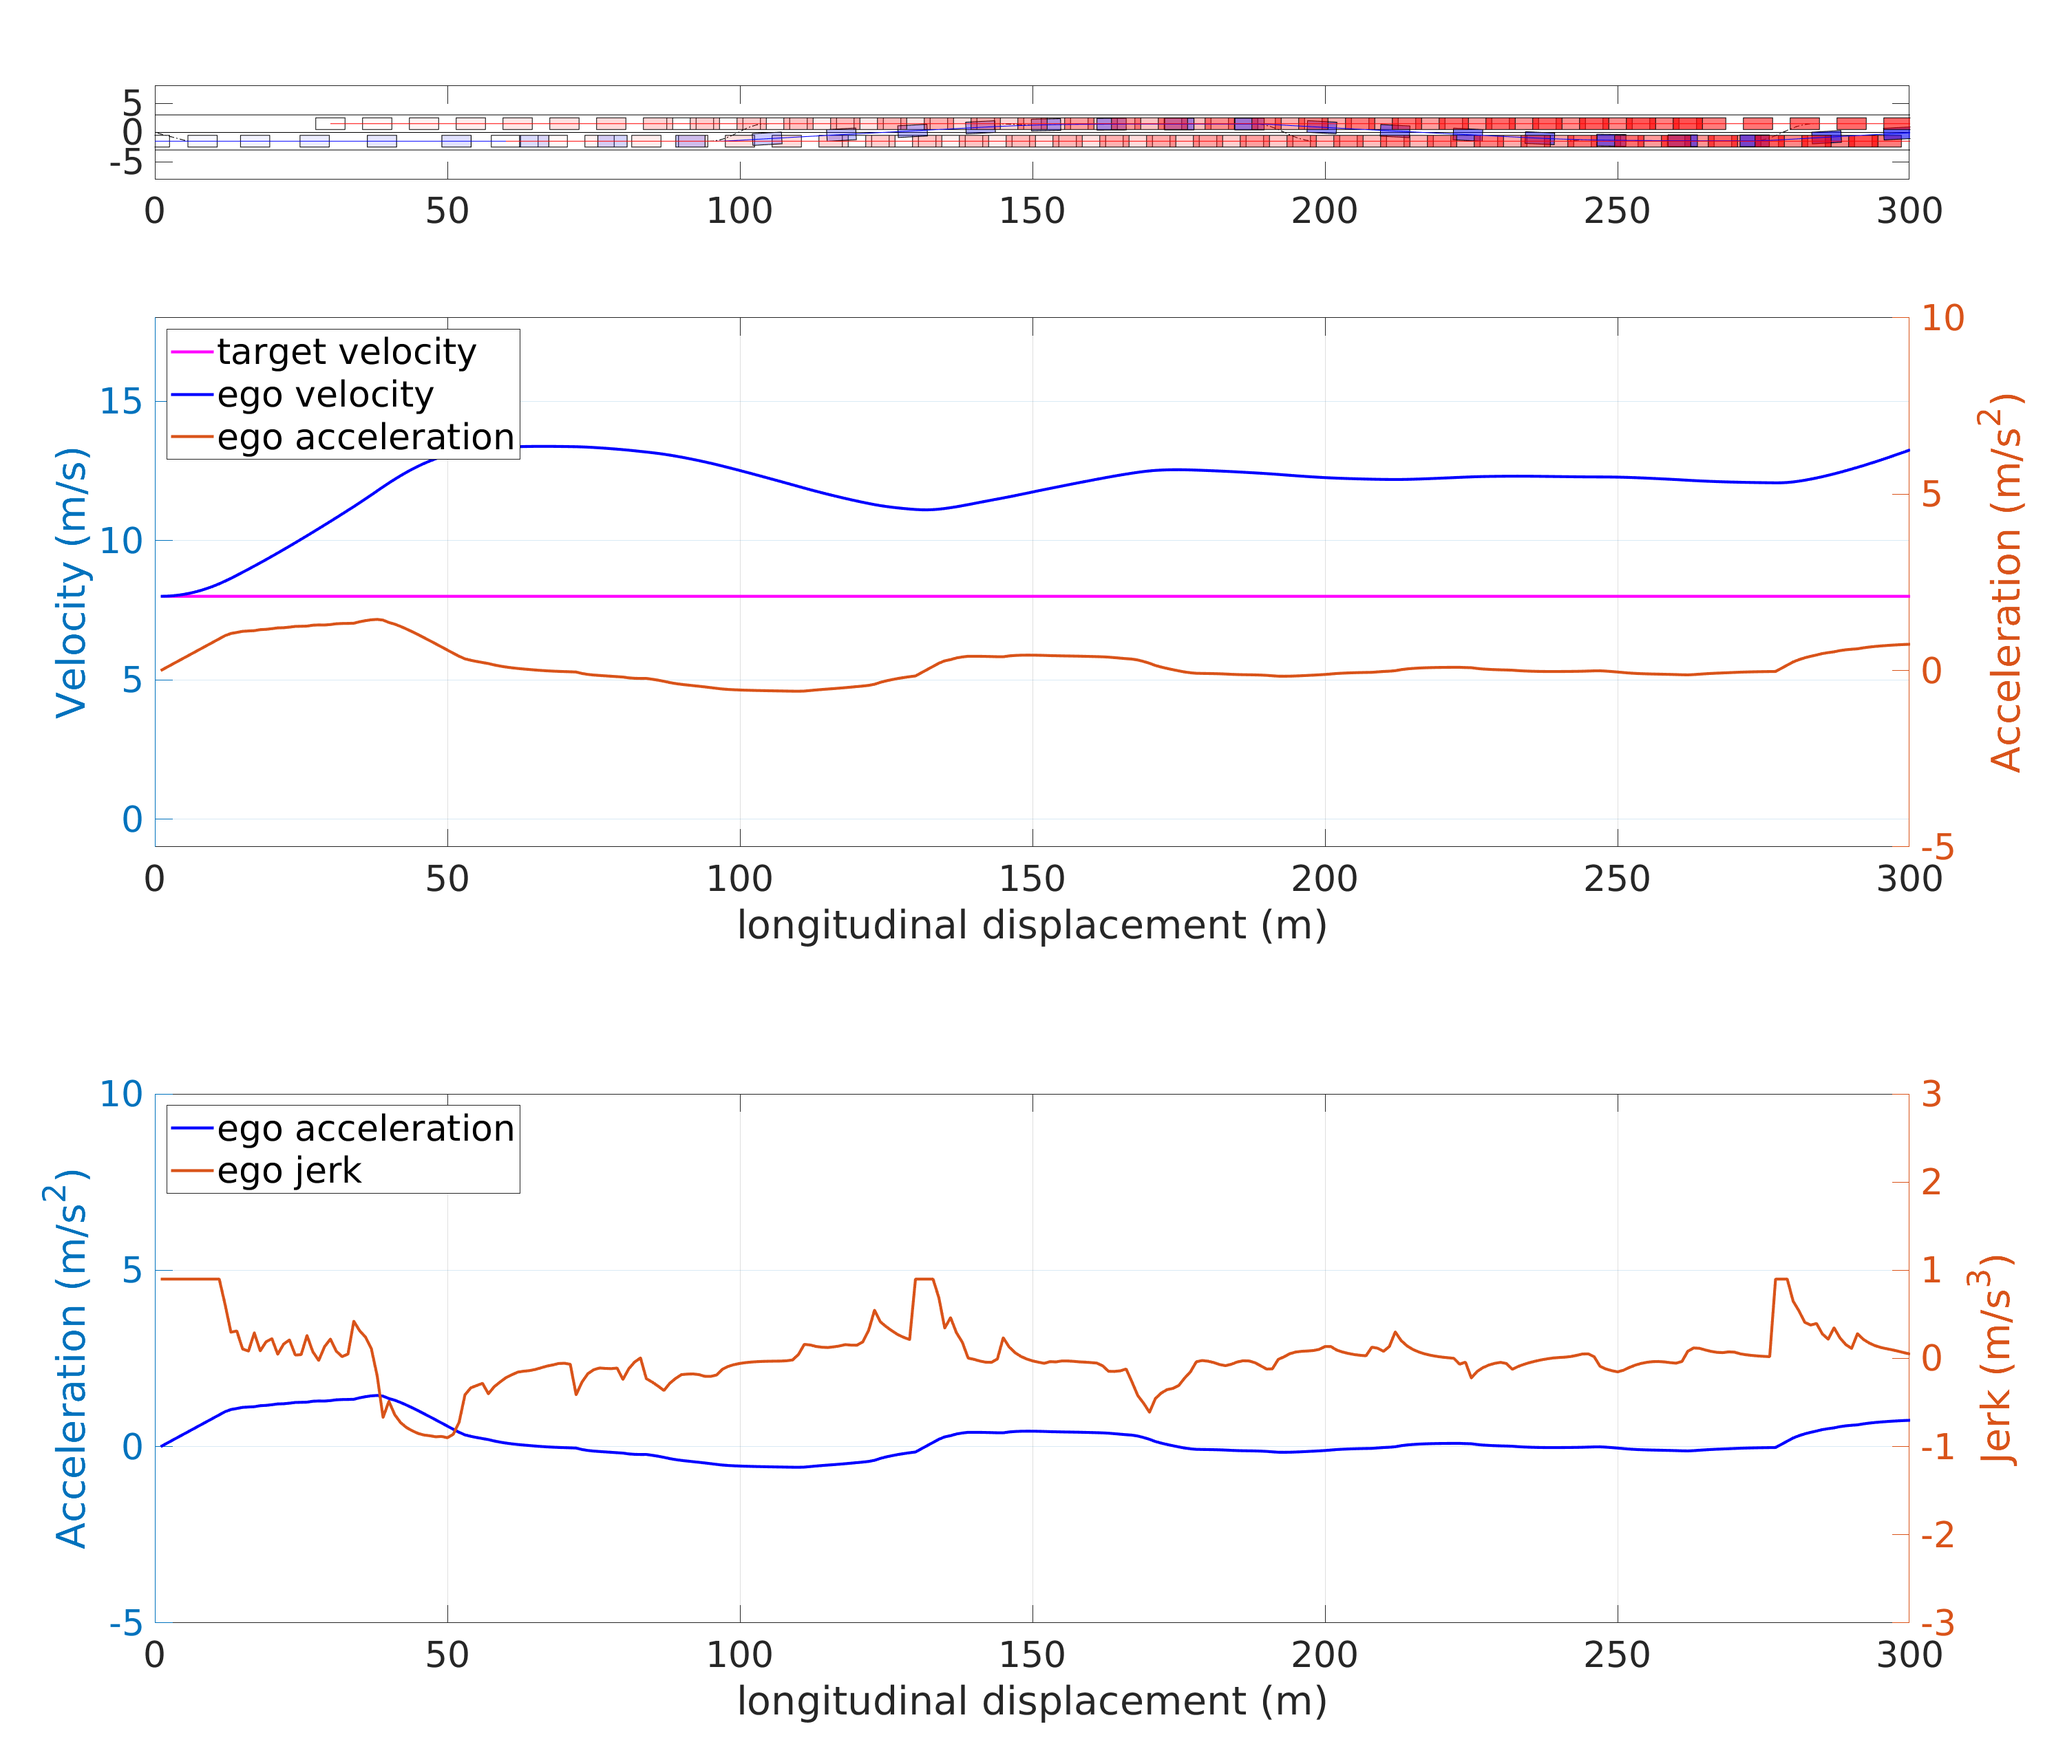
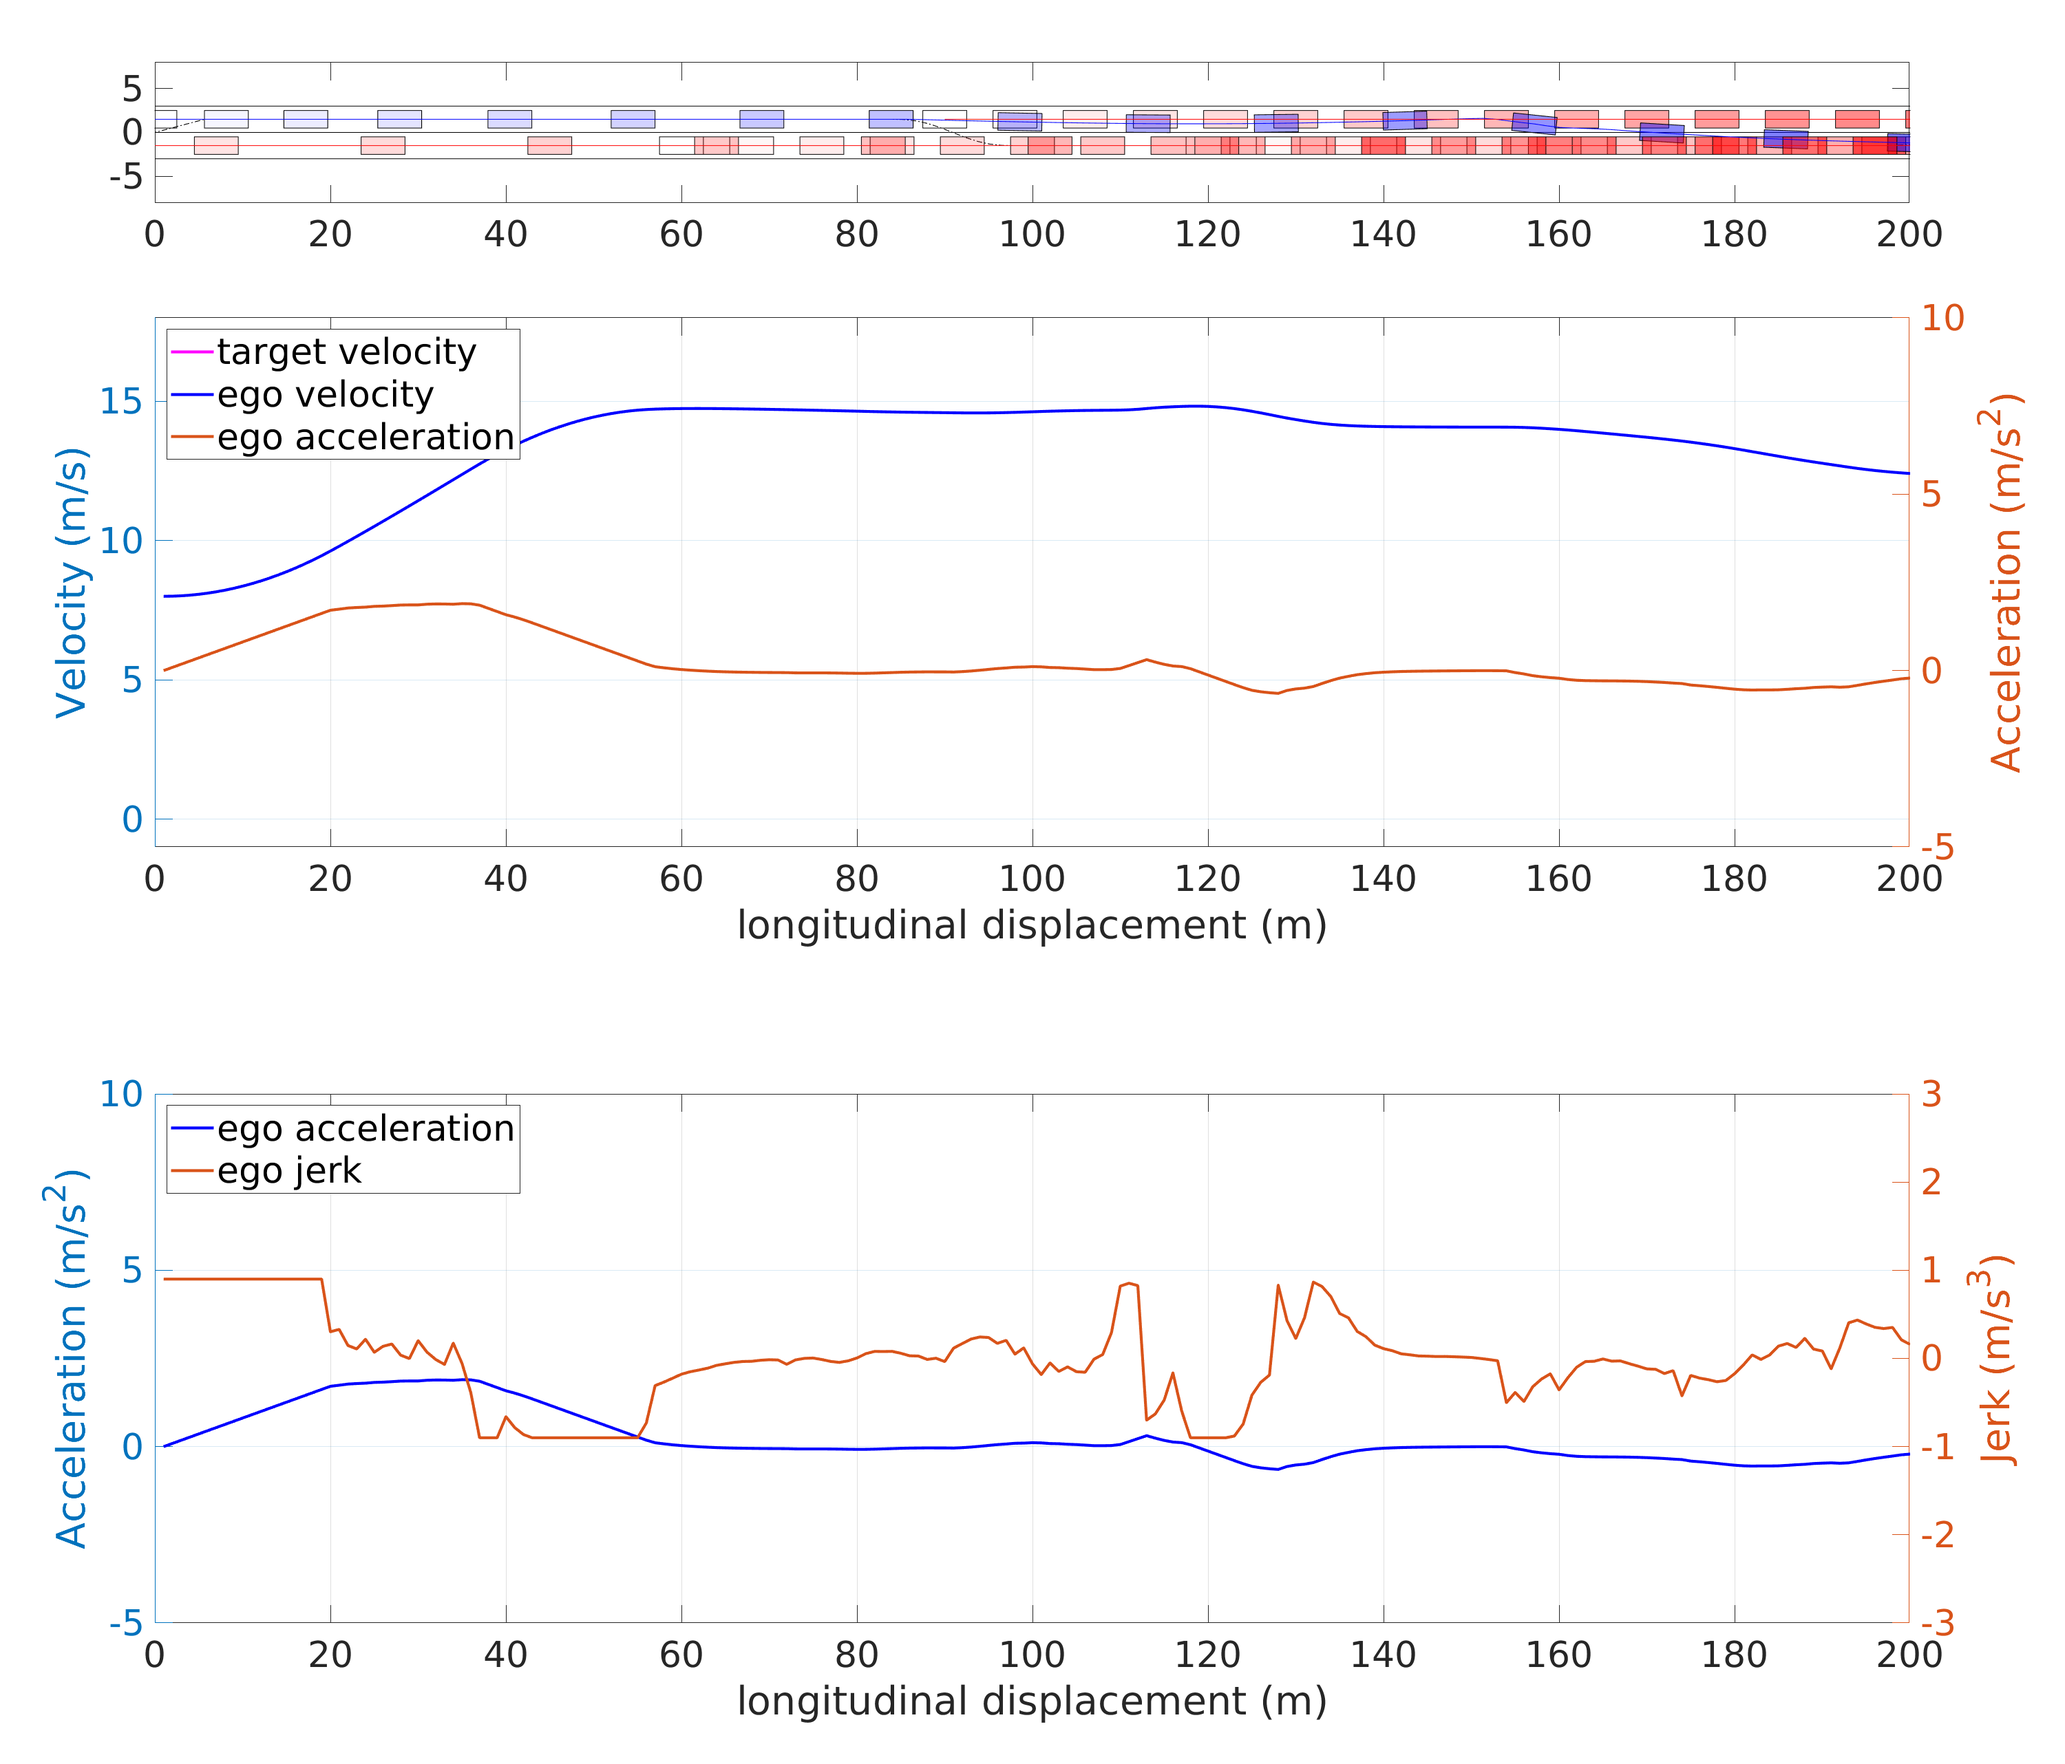
Policy maker is updated

diff --git a/DYNCST.m b/DYNCST.m
@@ -135,12 +135,12 @@ for i = 1:1:NUM_CTRL
 %            w_vel       = 30.* ones(NUM_CTRL,1);
 %         else
 
-       EgoPolicy1=0;EgoPolicy2tot=1;EgoPolicy2=1.* ones(20,1);counter=0;%initialization meaning lane keeping by default 
+       EgoPolicy1tot=0.;EgoPolicy1=0.* ones(20,1);EgoPolicy2tot=1;EgoPolicy2=1.* ones(20,1);counter=0;%initialization meaning lane keeping by default 
        %EgoPolicy2=1.* ones(20,1); b default for checking 20 cars in the other lane which is more than enough
        % the default value for EgoPolicy2 is 1 which will mk equal to 1 if y_temp_final is not the first or the last lane of the road 
 
        %if there wasn't an car near than distance of 300 from our car, we spcify the index as a requirment for following eqs  
-       ref_dist=10000.;closest_car=ref_dist; closest_back_car_dist=ref_dist;closest_front_car_dist=ref_dist;%initalization large distance
+       ref_dist=10000.;dangerousCar=0.;closest_car=ref_dist; closest_back_car_dist=ref_dist;closest_front_car_dist=ref_dist;%initalization large distance
        ccie=0;%closest_car_in_egolane=0;
        index=-1;front_index=1.5;back_index=1.5;%initalization index, we need to evaluate each time the nvironment to find the correct trget vehicle and if there's no car available in our lane index should be NaN 
         for k = 1:length(obstacle)
@@ -166,23 +166,23 @@ for i = 1:1:NUM_CTRL
               %finding the index of target vhicle with min distance if it's in the same lane with ego car   
               
               if deltaX>0%using the 1.1 coefficient front target vehicles have more influence on egopolicy value than the back vehicles 
-                  EgoPolicy1 =EgoPolicy1+1.1*deltaV/deltaX;
+                  EgoPolicy1(k) =1.1*obstacle(k).traj(4,i)*(deltaV/abs(deltaV))/deltaX;%deltaV/deltaX;
               elseif deltaX==0%to prevent infinity values we consider egopolicy2= 0 for deltaX=0
-                  EgoPolicy1 =EgoPolicy1+0;  
+                  EgoPolicy1(k) =0;  
               elseif deltaX<0
-                  EgoPolicy1 =EgoPolicy1+deltaV/deltaX;  
+                  EgoPolicy1(k) =obstacle(k).traj(4,i)*(deltaV/abs(deltaV))/deltaX;  
               end
-
-              if abs(deltaX)<abs(closest_car)
-              closest_car=deltaX;
-              if closest_car>0
+              EgoPolicy1tot=EgoPolicy1tot+EgoPolicy1(k);
+              if abs(EgoPolicy1(k))>abs(dangerousCar)
+              dangerousCar=abs(EgoPolicy1(k));
+%               if closest_car>0
               index=k;
                   if   deltaV~=0 && deltaX~=0
-                      EgoPolicy2(k) =tanh((deltaV/deltaX)*abs(deltaX/deltaV));
+                      EgoPolicy2(k) =tanh((obstacle(k).traj(4,i)*(deltaV/abs(deltaV))/deltaX));%tanh((deltaV/deltaX)*abs(deltaX/deltaV));
                   else
                       EgoPolicy2(k) =0;
                   end
-              end
+%               end
               end
          else   % as we need to make sure to not to double count the tgt vehicles, for 2 lanes roads if ytempfinal is linear and  tgtLaneY==y_temp_final then there's a chance to overcount the tagt vehicle here, that's h we need this else here   
 %          if y_temp_final==(road_up_lim-Lane_size/2.) || y_temp_final==(road_low_lim+Lane_size/2.)%in here we check if the temporary destination is on the frst or the last line of the road 
@@ -205,7 +205,7 @@ for i = 1:1:NUM_CTRL
                       front_index=k;
                      end
                   if   deltaV~=0 && deltaX~=0
-                      EgoPolicy2(k) =1.1*tanh((deltaV/deltaX)*abs(deltaX/deltaV));
+                      EgoPolicy2(k) =1.1*tanh((obstacle(k).traj(4,i)*(deltaV/abs(deltaV))/deltaX));
                   else
                       EgoPolicy2(k) =0;
                   end
@@ -217,7 +217,7 @@ for i = 1:1:NUM_CTRL
                       back_index=k;
                      end
                   if   deltaV~=0 && deltaX~=0
-                      EgoPolicy2(k) =tanh((deltaV/deltaX)*abs(deltaX/deltaV)); 
+                      EgoPolicy2(k) =tanh((obstacle(k).traj(4,i)*(deltaV/abs(deltaV))/deltaX)); 
                   else
                       EgoPolicy2(k) =0;
                   end
@@ -240,7 +240,7 @@ for i = 1:1:NUM_CTRL
         end
         if index~=-1 && front_index~=1.5
         if abs(obstacle(index).traj(1,i)-Xi(1))<abs(obstacle(front_index).traj(1,i)-Xi(1))
-        ccie=1;
+        ccie=2;
         end
         end
         
@@ -266,7 +266,7 @@ for i = 1:1:NUM_CTRL
               end
        end
         mk=(EgoPolicy2tot+abs(EgoPolicy2tot))/(2);
-        EgoPolicy=mk*EgoPolicy1;
+        EgoPolicy=mk*EgoPolicy1tot;
        end
 
 %          [dx_wei,index]=min(dx_wei_tags);% addaptive weight func modified by Omid
